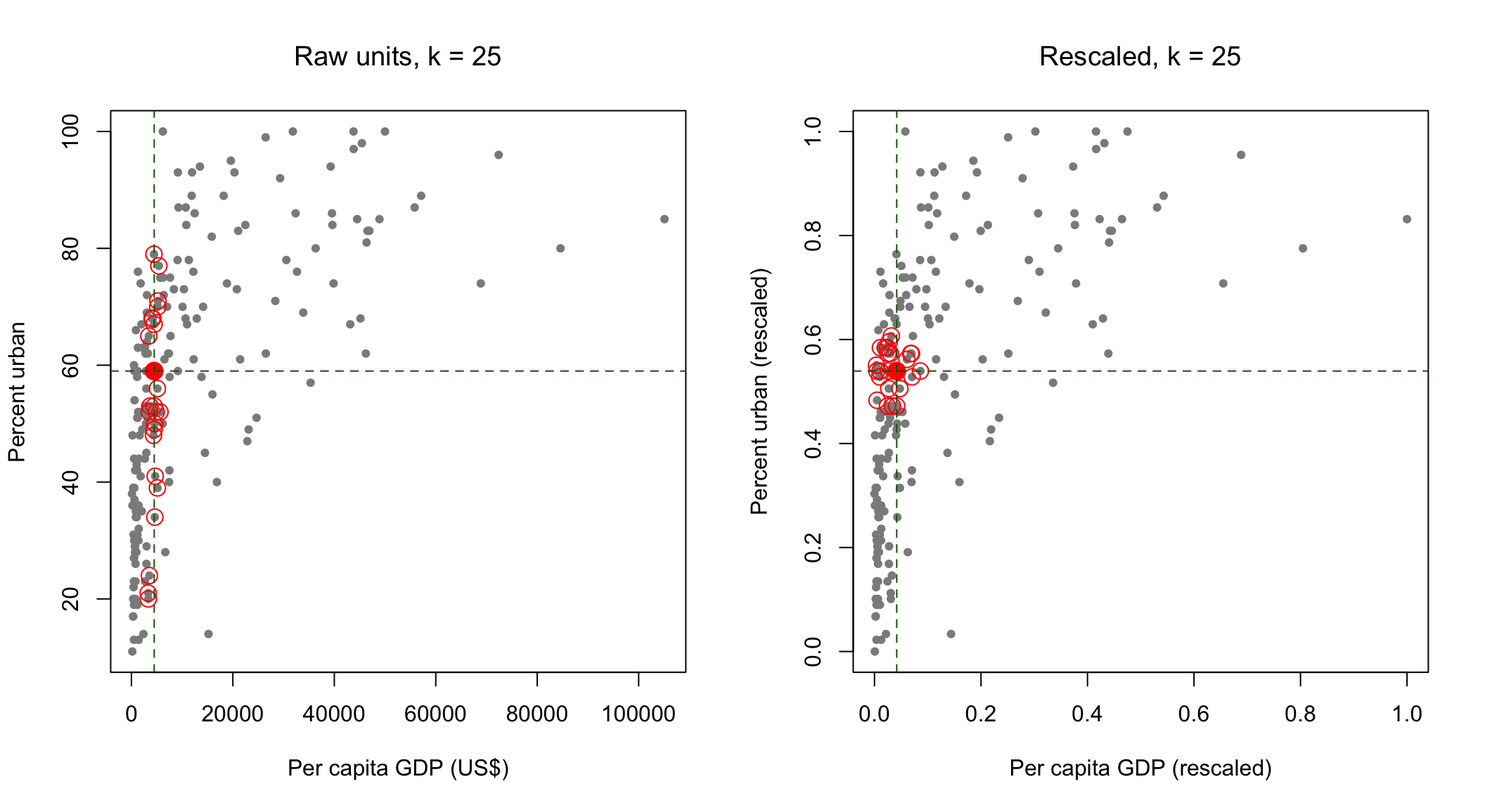
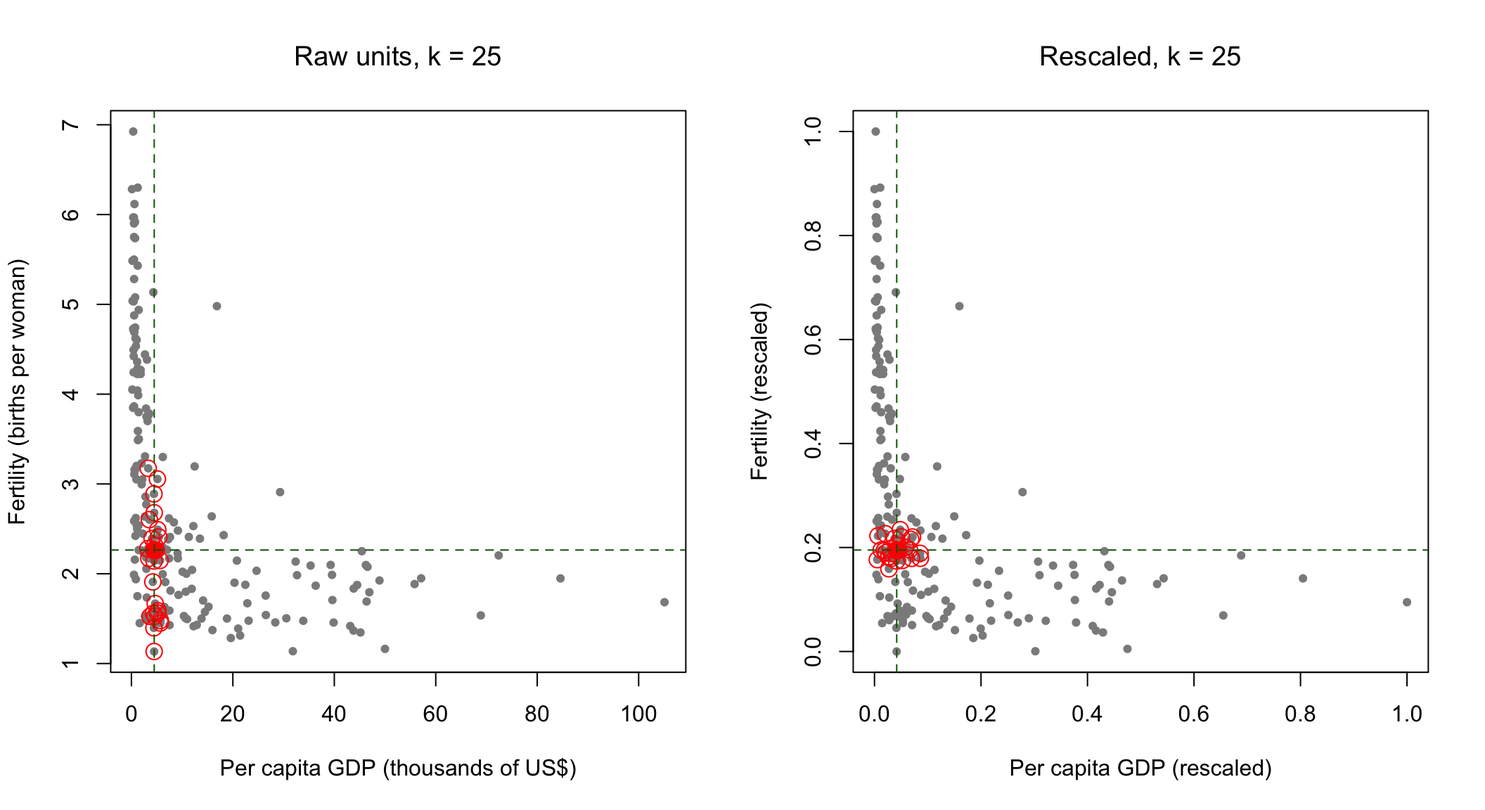
update...

diff --git a/docs/handouts/w02-knn.html b/docs/handouts/w02-knn.html
@@ -376,36 +376,38 @@ window.Quarto = {
 <div class="code-copy-outer-scaffold"><div class="sourceCode cell-code" id="cb2"><pre class="sourceCode r code-with-copy"><code class="sourceCode r"><span id="cb2-1"><a href="#cb2-1" aria-hidden="true" tabindex="-1"></a><span class="fu">library</span>(carData)</span>
 <span id="cb2-2"><a href="#cb2-2" aria-hidden="true" tabindex="-1"></a><span class="fu">library</span>(kknn)</span>
 <span id="cb2-3"><a href="#cb2-3" aria-hidden="true" tabindex="-1"></a></span>
-<span id="cb2-4"><a href="#cb2-4" aria-hidden="true" tabindex="-1"></a><span class="co"># Print numbers in full rather than as 1e+05. Affects plot axes too.</span></span>
-<span id="cb2-5"><a href="#cb2-5" aria-hidden="true" tabindex="-1"></a><span class="fu">options</span>(<span class="at">scipen =</span> <span class="dv">999</span>)</span>
-<span id="cb2-6"><a href="#cb2-6" aria-hidden="true" tabindex="-1"></a></span>
-<span id="cb2-7"><a href="#cb2-7" aria-hidden="true" tabindex="-1"></a><span class="fu">data</span>(UN, <span class="at">package =</span> <span class="st">"carData"</span>)</span>
-<span id="cb2-8"><a href="#cb2-8" aria-hidden="true" tabindex="-1"></a></span>
-<span id="cb2-9"><a href="#cb2-9" aria-hidden="true" tabindex="-1"></a>countries <span class="ot">&lt;-</span> <span class="fu">na.omit</span>(UN[, <span class="fu">c</span>(<span class="st">"ppgdp"</span>, <span class="st">"infantMortality"</span>, <span class="st">"fertility"</span>,</span>
-<span id="cb2-10"><a href="#cb2-10" aria-hidden="true" tabindex="-1"></a>                            <span class="st">"pctUrban"</span>, <span class="st">"lifeExpF"</span>, <span class="st">"group"</span>)])</span>
-<span id="cb2-11"><a href="#cb2-11" aria-hidden="true" tabindex="-1"></a></span>
-<span id="cb2-12"><a href="#cb2-12" aria-hidden="true" tabindex="-1"></a><span class="fu">nrow</span>(countries)</span></code></pre></div><button title="Copy to Clipboard" class="code-copy-button"><i class="bi"></i></button></div>
+<span id="cb2-4"><a href="#cb2-4" aria-hidden="true" tabindex="-1"></a><span class="fu">options</span>(<span class="at">scipen =</span> <span class="dv">999</span>)   <span class="co"># print numbers in full rather than as 1e+05</span></span>
+<span id="cb2-5"><a href="#cb2-5" aria-hidden="true" tabindex="-1"></a></span>
+<span id="cb2-6"><a href="#cb2-6" aria-hidden="true" tabindex="-1"></a><span class="fu">data</span>(UN, <span class="at">package =</span> <span class="st">"carData"</span>)</span>
+<span id="cb2-7"><a href="#cb2-7" aria-hidden="true" tabindex="-1"></a></span>
+<span id="cb2-8"><a href="#cb2-8" aria-hidden="true" tabindex="-1"></a>countries <span class="ot">&lt;-</span> <span class="fu">na.omit</span>(UN[, <span class="fu">c</span>(<span class="st">"ppgdp"</span>, <span class="st">"infantMortality"</span>, <span class="st">"fertility"</span>,</span>
+<span id="cb2-9"><a href="#cb2-9" aria-hidden="true" tabindex="-1"></a>                            <span class="st">"pctUrban"</span>, <span class="st">"lifeExpF"</span>, <span class="st">"group"</span>)])</span>
+<span id="cb2-10"><a href="#cb2-10" aria-hidden="true" tabindex="-1"></a></span>
+<span id="cb2-11"><a href="#cb2-11" aria-hidden="true" tabindex="-1"></a><span class="co"># Express per capita GDP in thousands of dollars</span></span>
+<span id="cb2-12"><a href="#cb2-12" aria-hidden="true" tabindex="-1"></a>countries<span class="sc">$</span>ppgdp <span class="ot">&lt;-</span> countries<span class="sc">$</span>ppgdp <span class="sc">/</span> <span class="dv">1000</span></span>
+<span id="cb2-13"><a href="#cb2-13" aria-hidden="true" tabindex="-1"></a></span>
+<span id="cb2-14"><a href="#cb2-14" aria-hidden="true" tabindex="-1"></a><span class="fu">nrow</span>(countries)</span></code></pre></div><button title="Copy to Clipboard" class="code-copy-button"><i class="bi"></i></button></div>
 <div class="cell-output cell-output-stdout">
 <pre><code>[1] 193</code></pre>
 </div>
 <div class="code-copy-outer-scaffold"><div class="sourceCode cell-code" id="cb4"><pre class="sourceCode r code-with-copy"><code class="sourceCode r"><span id="cb4-1"><a href="#cb4-1" aria-hidden="true" tabindex="-1"></a><span class="fu">head</span>(countries)</span></code></pre></div><button title="Copy to Clipboard" class="code-copy-button"><i class="bi"></i></button></div>
 <div class="cell-output cell-output-stdout">
 <pre><code>             ppgdp infantMortality fertility pctUrban lifeExpF  group
-Afghanistan  499.0         124.535     5.968       23    49.49  other
-Albania     3677.2          16.561     1.525       53    80.40  other
-Algeria     4473.0          21.458     2.142       67    75.00 africa
-Angola      4321.9          96.191     5.135       59    53.17 africa
-Argentina   9162.1          12.337     2.172       93    79.89  other
-Armenia     3030.7          24.272     1.735       64    77.33  other</code></pre>
+Afghanistan 0.4990         124.535     5.968       23    49.49  other
+Albania     3.6772          16.561     1.525       53    80.40  other
+Algeria     4.4730          21.458     2.142       67    75.00 africa
+Angola      4.3219          96.191     5.135       59    53.17 africa
+Argentina   9.1621          12.337     2.172       93    79.89  other
+Armenia     3.0307          24.272     1.735       64    77.33  other</code></pre>
 </div>
 </div>
-<p><code>ppgdp</code> is per capita gross domestic product in US dollars, and <code>infantMortality</code> is deaths per thousand live births.</p>
-<p>The <code>options(scipen = 999)</code> line above is a small housekeeping habit worth adopting now. Per capita GDP runs into six figures, and R’s default is to report large and small numbers in scientific notation, so an axis would be labeled <code>0e+00</code>, <code>2e+04</code>, <code>4e+04</code> rather than in dollars anyone can read. Setting <code>scipen</code> high tells R to prefer ordinary notation, in printed output and on plot axes alike. Put it at the top of any script whose numbers are meant for a reader rather than for you.</p>
+<p><code>ppgdp</code> is per capita gross domestic product and <code>infantMortality</code> is deaths per thousand live births.</p>
+<p>Two small things in that chunk. <code>options(scipen = 999)</code> tells R to print numbers in full rather than in scientific notation, so that a hundred thousand appears as <code>100000</code> and not as <code>1e+05</code>. And we divide per capita GDP by a thousand, so it is measured in thousands of dollars. That second step is cosmetic as far as the model is concerned, since dividing every value by the same constant cannot change which countries are nearest to which, but it keeps every axis in this handout readable. Nobody reports per capita GDP to the nearest dollar anyway.</p>
 <p>Start by looking at the data.</p>
 <div class="cell">
 <div class="code-copy-outer-scaffold"><div class="sourceCode cell-code" id="cb6"><pre class="sourceCode r code-with-copy"><code class="sourceCode r"><span id="cb6-1"><a href="#cb6-1" aria-hidden="true" tabindex="-1"></a><span class="fu">plot</span>(countries<span class="sc">$</span>ppgdp, countries<span class="sc">$</span>infantMortality,</span>
 <span id="cb6-2"><a href="#cb6-2" aria-hidden="true" tabindex="-1"></a>     <span class="at">col =</span> <span class="st">"gray45"</span>, <span class="at">pch =</span> <span class="dv">19</span>, <span class="at">cex =</span> <span class="fl">0.7</span>,</span>
-<span id="cb6-3"><a href="#cb6-3" aria-hidden="true" tabindex="-1"></a>     <span class="at">xlab =</span> <span class="st">"Per capita GDP (US$)"</span>,</span>
+<span id="cb6-3"><a href="#cb6-3" aria-hidden="true" tabindex="-1"></a>     <span class="at">xlab =</span> <span class="st">"Per capita GDP (thousands of US$)"</span>,</span>
 <span id="cb6-4"><a href="#cb6-4" aria-hidden="true" tabindex="-1"></a>     <span class="at">ylab =</span> <span class="st">"Infant mortality (per 1,000 live births)"</span>)</span></code></pre></div><button title="Copy to Clipboard" class="code-copy-button"><i class="bi"></i></button></div>
 <div class="cell-output-display">
 <div>
@@ -420,7 +422,7 @@ Armenia     3030.7          24.272     1.735       64    77.33  other</code></pr
 <div class="cell">
 <div class="code-copy-outer-scaffold"><div class="sourceCode cell-code" id="cb7"><pre class="sourceCode r code-with-copy"><code class="sourceCode r"><span id="cb7-1"><a href="#cb7-1" aria-hidden="true" tabindex="-1"></a><span class="fu">plot</span>(countries<span class="sc">$</span>ppgdp, countries<span class="sc">$</span>infantMortality,</span>
 <span id="cb7-2"><a href="#cb7-2" aria-hidden="true" tabindex="-1"></a>     <span class="at">col =</span> <span class="st">"gray45"</span>, <span class="at">pch =</span> <span class="dv">19</span>, <span class="at">cex =</span> <span class="fl">0.7</span>,</span>
-<span id="cb7-3"><a href="#cb7-3" aria-hidden="true" tabindex="-1"></a>     <span class="at">xlab =</span> <span class="st">"Per capita GDP (US$)"</span>,</span>
+<span id="cb7-3"><a href="#cb7-3" aria-hidden="true" tabindex="-1"></a>     <span class="at">xlab =</span> <span class="st">"Per capita GDP (thousands of US$)"</span>,</span>
 <span id="cb7-4"><a href="#cb7-4" aria-hidden="true" tabindex="-1"></a>     <span class="at">ylab =</span> <span class="st">"Infant mortality (per 1,000 live births)"</span>)</span>
 <span id="cb7-5"><a href="#cb7-5" aria-hidden="true" tabindex="-1"></a></span>
 <span id="cb7-6"><a href="#cb7-6" aria-hidden="true" tabindex="-1"></a>fit_ols <span class="ot">&lt;-</span> <span class="fu">lm</span>(infantMortality <span class="sc">~</span> ppgdp, <span class="at">data =</span> countries)</span>
@@ -445,7 +447,7 @@ Armenia     3030.7          24.272     1.735       64    77.33  other</code></pr
 <span id="cb8-6"><a href="#cb8-6" aria-hidden="true" tabindex="-1"></a></span>
 <span id="cb8-7"><a href="#cb8-7" aria-hidden="true" tabindex="-1"></a><span class="fu">plot</span>(countries<span class="sc">$</span>ppgdp, countries<span class="sc">$</span>infantMortality,</span>
 <span id="cb8-8"><a href="#cb8-8" aria-hidden="true" tabindex="-1"></a>     <span class="at">col =</span> <span class="st">"gray45"</span>, <span class="at">pch =</span> <span class="dv">19</span>, <span class="at">cex =</span> <span class="fl">0.7</span>,</span>
-<span id="cb8-9"><a href="#cb8-9" aria-hidden="true" tabindex="-1"></a>     <span class="at">xlab =</span> <span class="st">"Per capita GDP (US$)"</span>,</span>
+<span id="cb8-9"><a href="#cb8-9" aria-hidden="true" tabindex="-1"></a>     <span class="at">xlab =</span> <span class="st">"Per capita GDP (thousands of US$)"</span>,</span>
 <span id="cb8-10"><a href="#cb8-10" aria-hidden="true" tabindex="-1"></a>     <span class="at">ylab =</span> <span class="st">"Infant mortality (per 1,000 live births)"</span>,</span>
 <span id="cb8-11"><a href="#cb8-11" aria-hidden="true" tabindex="-1"></a>     <span class="at">main =</span> <span class="st">"k = 15"</span>)</span>
 <span id="cb8-12"><a href="#cb8-12" aria-hidden="true" tabindex="-1"></a></span>
@@ -472,7 +474,7 @@ Armenia     3030.7          24.272     1.735       64    77.33  other</code></pr
 <div class="cell">
 <div class="code-copy-outer-scaffold"><div class="sourceCode cell-code" id="cb9"><pre class="sourceCode r code-with-copy"><code class="sourceCode r"><span id="cb9-1"><a href="#cb9-1" aria-hidden="true" tabindex="-1"></a><span class="fu">plot</span>(countries<span class="sc">$</span>ppgdp, countries<span class="sc">$</span>infantMortality,</span>
 <span id="cb9-2"><a href="#cb9-2" aria-hidden="true" tabindex="-1"></a>     <span class="at">col =</span> <span class="st">"gray75"</span>, <span class="at">pch =</span> <span class="dv">19</span>, <span class="at">cex =</span> <span class="fl">0.7</span>,</span>
-<span id="cb9-3"><a href="#cb9-3" aria-hidden="true" tabindex="-1"></a>     <span class="at">xlab =</span> <span class="st">"Per capita GDP (US$)"</span>,</span>
+<span id="cb9-3"><a href="#cb9-3" aria-hidden="true" tabindex="-1"></a>     <span class="at">xlab =</span> <span class="st">"Per capita GDP (thousands of US$)"</span>,</span>
 <span id="cb9-4"><a href="#cb9-4" aria-hidden="true" tabindex="-1"></a>     <span class="at">ylab =</span> <span class="st">"Infant mortality (per 1,000 live births)"</span>,</span>
 <span id="cb9-5"><a href="#cb9-5" aria-hidden="true" tabindex="-1"></a>     <span class="at">main =</span> <span class="st">"The same data, four values of k"</span>)</span>
 <span id="cb9-6"><a href="#cb9-6" aria-hidden="true" tabindex="-1"></a></span>
@@ -818,20 +820,20 @@ Armenia     3030.7          24.272     1.735       64    77.33  other</code></pr
 <p>So far similarity has meant closeness on a single axis, which is easy. With several features we need a general definition of distance, and the usual one is Euclidean distance. For a case <span class="math inline">\(f\)</span> with features <span class="math inline">\((x_{f1}, \dots, x_{fp})\)</span> and a case <span class="math inline">\(i\)</span> in the training data,</p>
 <p><span class="math display">\[d_{if} = \sqrt{\sum_{j=1}^{p}\left(x_{fj} - x_{ij}\right)^2}.\]</span></p>
 <p>This is the straight-line distance you already know, extended to more than two dimensions. And it introduces a problem that is easy to miss and consequential when you do.</p>
-<p>Our features are measured in wildly different units. Per capita GDP runs into the tens of thousands of dollars. Percent urban runs from zero to a hundred. Fertility runs from about one to about seven.</p>
+<p>Our features are measured on very different scales. Per capita GDP runs from well under one up to about a hundred, in thousands of dollars. Percent urban runs from zero to a hundred. Fertility runs from about one to about seven, and female life expectancy from the high forties to the high eighties.</p>
 <div class="cell">
 <div class="code-copy-outer-scaffold"><div class="sourceCode cell-code" id="cb29"><pre class="sourceCode r code-with-copy"><code class="sourceCode r"><span id="cb29-1"><a href="#cb29-1" aria-hidden="true" tabindex="-1"></a><span class="fu">summary</span>(countries[, <span class="fu">c</span>(<span class="st">"ppgdp"</span>, <span class="st">"pctUrban"</span>, <span class="st">"fertility"</span>, <span class="st">"lifeExpF"</span>)])</span></code></pre></div><button title="Copy to Clipboard" class="code-copy-button"><i class="bi"></i></button></div>
 <div class="cell-output cell-output-stdout">
 <pre><code>     ppgdp             pctUrban       fertility        lifeExpF    
- Min.   :   114.8   Min.   : 11.0   Min.   :1.134   Min.   :48.11  
- 1st Qu.:  1239.8   1st Qu.: 39.0   1st Qu.:1.750   1st Qu.:65.10  
- Median :  4495.8   Median : 59.0   Median :2.264   Median :75.57  
- Mean   : 12291.1   Mean   : 57.1   Mean   :2.780   Mean   :72.08  
- 3rd Qu.: 14497.3   3rd Qu.: 75.0   3rd Qu.:3.700   3rd Qu.:79.07  
- Max.   :105095.4   Max.   :100.0   Max.   :6.925   Max.   :87.12  </code></pre>
+ Min.   :  0.1148   Min.   : 11.0   Min.   :1.134   Min.   :48.11  
+ 1st Qu.:  1.2398   1st Qu.: 39.0   1st Qu.:1.750   1st Qu.:65.10  
+ Median :  4.4958   Median : 59.0   Median :2.264   Median :75.57  
+ Mean   : 12.2911   Mean   : 57.1   Mean   :2.780   Mean   :72.08  
+ 3rd Qu.: 14.4973   3rd Qu.: 75.0   3rd Qu.:3.700   3rd Qu.:79.07  
+ Max.   :105.0954   Max.   :100.0   Max.   :6.925   Max.   :87.12  </code></pre>
 </div>
 </div>
-<p>Put those into the distance formula unchanged and a difference of $10,000 in income contributes a hundred million to the sum under the square root, while the entire possible range of fertility contributes about thirty-six. Income does not merely dominate the calculation. It effectively is the calculation, and the other three features have no influence on which cases count as neighbors.</p>
+<p>Put those into the distance formula unchanged and the two wide-ranging features decide everything. A difference of fifty between two countries on per capita GDP contributes two and a half thousand to the sum under the square root. The entire possible range of fertility, from one child per woman to seven, contributes about thirty-five. Fertility is not being weighted lightly here. For practical purposes it is not in the model at all, and neither is anything else measured on a small scale.</p>
 <p>The standard fix is to put all features on a common scale first, either</p>
 <p><span class="math display">\[\tilde{x} = \frac{x - \min(x)}{\max(x) - \min(x)} \qquad \text{or} \qquad \tilde{x} = \frac{x - \bar{x}}{\sigma_x}.\]</span></p>
 <div class="cell">
@@ -858,20 +860,19 @@ Armenia     3030.7          24.272     1.735       64    77.33  other</code></pr
 <div class="code-copy-outer-scaffold"><div class="sourceCode cell-code" id="cb33"><pre class="sourceCode r code-with-copy"><code class="sourceCode r"><span id="cb33-1"><a href="#cb33-1" aria-hidden="true" tabindex="-1"></a><span class="fu">par</span>(<span class="at">mfrow =</span> <span class="fu">c</span>(<span class="dv">2</span>, <span class="dv">2</span>))</span>
 <span id="cb33-2"><a href="#cb33-2" aria-hidden="true" tabindex="-1"></a></span>
 <span id="cb33-3"><a href="#cb33-3" aria-hidden="true" tabindex="-1"></a><span class="fu">plot</span>(countries<span class="sc">$</span>ppgdp, countries<span class="sc">$</span>infantMortality, <span class="at">col =</span> <span class="st">"maroon"</span>, <span class="at">cex =</span> <span class="fl">0.7</span>,</span>
-<span id="cb33-4"><a href="#cb33-4" aria-hidden="true" tabindex="-1"></a>     <span class="at">xlab =</span> <span class="st">"Per capita GDP (US$)"</span>, <span class="at">ylab =</span> <span class="st">"Infant mortality"</span>,</span>
+<span id="cb33-4"><a href="#cb33-4" aria-hidden="true" tabindex="-1"></a>     <span class="at">xlab =</span> <span class="st">"Per capita GDP (thousands of US$)"</span>, <span class="at">ylab =</span> <span class="st">"Infant mortality"</span>,</span>
 <span id="cb33-5"><a href="#cb33-5" aria-hidden="true" tabindex="-1"></a>     <span class="at">main =</span> <span class="st">"Raw units"</span>, <span class="at">font.main =</span> <span class="dv">1</span>)</span>
-<span id="cb33-6"><a href="#cb33-6" aria-hidden="true" tabindex="-1"></a></span>
-<span id="cb33-7"><a href="#cb33-7" aria-hidden="true" tabindex="-1"></a><span class="fu">plot</span>(countries_s<span class="sc">$</span>ppgdp, countries_s<span class="sc">$</span>infantMortality, <span class="at">col =</span> <span class="st">"maroon"</span>, <span class="at">cex =</span> <span class="fl">0.7</span>,</span>
-<span id="cb33-8"><a href="#cb33-8" aria-hidden="true" tabindex="-1"></a>     <span class="at">xlab =</span> <span class="st">"Per capita GDP (rescaled 0 to 1)"</span>, <span class="at">ylab =</span> <span class="st">"Infant mortality"</span>,</span>
-<span id="cb33-9"><a href="#cb33-9" aria-hidden="true" tabindex="-1"></a>     <span class="at">main =</span> <span class="st">"Rescaled"</span>, <span class="at">font.main =</span> <span class="dv">1</span>)</span>
-<span id="cb33-10"><a href="#cb33-10" aria-hidden="true" tabindex="-1"></a></span>
-<span id="cb33-11"><a href="#cb33-11" aria-hidden="true" tabindex="-1"></a><span class="fu">plot</span>(countries<span class="sc">$</span>pctUrban, countries<span class="sc">$</span>infantMortality, <span class="at">col =</span> <span class="st">"maroon"</span>, <span class="at">cex =</span> <span class="fl">0.7</span>,</span>
-<span id="cb33-12"><a href="#cb33-12" aria-hidden="true" tabindex="-1"></a>     <span class="at">xlab =</span> <span class="st">"Percent urban"</span>, <span class="at">ylab =</span> <span class="st">"Infant mortality"</span>,</span>
-<span id="cb33-13"><a href="#cb33-13" aria-hidden="true" tabindex="-1"></a>     <span class="at">main =</span> <span class="st">"Raw units"</span>, <span class="at">font.main =</span> <span class="dv">1</span>)</span>
-<span id="cb33-14"><a href="#cb33-14" aria-hidden="true" tabindex="-1"></a></span>
-<span id="cb33-15"><a href="#cb33-15" aria-hidden="true" tabindex="-1"></a><span class="fu">plot</span>(countries_s<span class="sc">$</span>pctUrban, countries_s<span class="sc">$</span>infantMortality, <span class="at">col =</span> <span class="st">"maroon"</span>, <span class="at">cex =</span> <span class="fl">0.7</span>,</span>
-<span id="cb33-16"><a href="#cb33-16" aria-hidden="true" tabindex="-1"></a>     <span class="at">xlab =</span> <span class="st">"Percent urban (rescaled 0 to 1)"</span>, <span class="at">ylab =</span> <span class="st">"Infant mortality"</span>,</span>
-<span id="cb33-17"><a href="#cb33-17" aria-hidden="true" tabindex="-1"></a>     <span class="at">main =</span> <span class="st">"Rescaled"</span>, <span class="at">font.main =</span> <span class="dv">1</span>)</span></code></pre></div><button title="Copy to Clipboard" class="code-copy-button"><i class="bi"></i></button></div>
+<span id="cb33-6"><a href="#cb33-6" aria-hidden="true" tabindex="-1"></a><span class="fu">plot</span>(countries_s<span class="sc">$</span>ppgdp, countries_s<span class="sc">$</span>infantMortality, <span class="at">col =</span> <span class="st">"maroon"</span>, <span class="at">cex =</span> <span class="fl">0.7</span>,</span>
+<span id="cb33-7"><a href="#cb33-7" aria-hidden="true" tabindex="-1"></a>     <span class="at">xlab =</span> <span class="st">"Per capita GDP (rescaled 0 to 1)"</span>, <span class="at">ylab =</span> <span class="st">"Infant mortality"</span>,</span>
+<span id="cb33-8"><a href="#cb33-8" aria-hidden="true" tabindex="-1"></a>     <span class="at">main =</span> <span class="st">"Rescaled"</span>, <span class="at">font.main =</span> <span class="dv">1</span>)</span>
+<span id="cb33-9"><a href="#cb33-9" aria-hidden="true" tabindex="-1"></a></span>
+<span id="cb33-10"><a href="#cb33-10" aria-hidden="true" tabindex="-1"></a><span class="fu">plot</span>(countries<span class="sc">$</span>pctUrban, countries<span class="sc">$</span>infantMortality, <span class="at">col =</span> <span class="st">"maroon"</span>, <span class="at">cex =</span> <span class="fl">0.7</span>,</span>
+<span id="cb33-11"><a href="#cb33-11" aria-hidden="true" tabindex="-1"></a>     <span class="at">xlab =</span> <span class="st">"Percent urban"</span>, <span class="at">ylab =</span> <span class="st">"Infant mortality"</span>,</span>
+<span id="cb33-12"><a href="#cb33-12" aria-hidden="true" tabindex="-1"></a>     <span class="at">main =</span> <span class="st">"Raw units"</span>, <span class="at">font.main =</span> <span class="dv">1</span>)</span>
+<span id="cb33-13"><a href="#cb33-13" aria-hidden="true" tabindex="-1"></a></span>
+<span id="cb33-14"><a href="#cb33-14" aria-hidden="true" tabindex="-1"></a><span class="fu">plot</span>(countries_s<span class="sc">$</span>pctUrban, countries_s<span class="sc">$</span>infantMortality, <span class="at">col =</span> <span class="st">"maroon"</span>, <span class="at">cex =</span> <span class="fl">0.7</span>,</span>
+<span id="cb33-15"><a href="#cb33-15" aria-hidden="true" tabindex="-1"></a>     <span class="at">xlab =</span> <span class="st">"Percent urban (rescaled 0 to 1)"</span>, <span class="at">ylab =</span> <span class="st">"Infant mortality"</span>,</span>
+<span id="cb33-16"><a href="#cb33-16" aria-hidden="true" tabindex="-1"></a>     <span class="at">main =</span> <span class="st">"Rescaled"</span>, <span class="at">font.main =</span> <span class="dv">1</span>)</span></code></pre></div><button title="Copy to Clipboard" class="code-copy-button"><i class="bi"></i></button></div>
 <div class="cell-output-display">
 <div>
 <figure class="figure">
@@ -907,32 +908,32 @@ Armenia     3030.7          24.272     1.735       64    77.33  other</code></pr
 <h2 class="anchored" data-anchor-id="what-the-neighborhood-looks-like">What the neighborhood looks like</h2>
 <p>Now the thing worth seeing. Pick a country, and ask which twenty-five countries the algorithm considers its neighbors. We do it twice, once in raw units and once rescaled, using the same country both times.</p>
 <div class="cell">
-<div class="code-copy-outer-scaffold"><div class="sourceCode cell-code" id="cb35"><pre class="sourceCode r code-with-copy"><code class="sourceCode r"><span id="cb35-1"><a href="#cb35-1" aria-hidden="true" tabindex="-1"></a>target_raw <span class="ot">&lt;-</span> <span class="fu">c</span>(<span class="fu">median</span>(countries<span class="sc">$</span>ppgdp),   <span class="fu">median</span>(countries<span class="sc">$</span>pctUrban))</span>
-<span id="cb35-2"><a href="#cb35-2" aria-hidden="true" tabindex="-1"></a>target_s   <span class="ot">&lt;-</span> <span class="fu">c</span>(<span class="fu">median</span>(countries_s<span class="sc">$</span>ppgdp), <span class="fu">median</span>(countries_s<span class="sc">$</span>pctUrban))</span>
+<div class="code-copy-outer-scaffold"><div class="sourceCode cell-code" id="cb35"><pre class="sourceCode r code-with-copy"><code class="sourceCode r"><span id="cb35-1"><a href="#cb35-1" aria-hidden="true" tabindex="-1"></a>target_raw <span class="ot">&lt;-</span> <span class="fu">c</span>(<span class="fu">median</span>(countries<span class="sc">$</span>ppgdp),   <span class="fu">median</span>(countries<span class="sc">$</span>fertility))</span>
+<span id="cb35-2"><a href="#cb35-2" aria-hidden="true" tabindex="-1"></a>target_s   <span class="ot">&lt;-</span> <span class="fu">c</span>(<span class="fu">median</span>(countries_s<span class="sc">$</span>ppgdp), <span class="fu">median</span>(countries_s<span class="sc">$</span>fertility))</span>
 <span id="cb35-3"><a href="#cb35-3" aria-hidden="true" tabindex="-1"></a></span>
 <span id="cb35-4"><a href="#cb35-4" aria-hidden="true" tabindex="-1"></a><span class="co"># Euclidean distance, exactly the formula above, computed by hand</span></span>
-<span id="cb35-5"><a href="#cb35-5" aria-hidden="true" tabindex="-1"></a>dist_raw <span class="ot">&lt;-</span> <span class="fu">sqrt</span>((countries<span class="sc">$</span>ppgdp   <span class="sc">-</span> target_raw[<span class="dv">1</span>])<span class="sc">^</span><span class="dv">2</span> <span class="sc">+</span></span>
-<span id="cb35-6"><a href="#cb35-6" aria-hidden="true" tabindex="-1"></a>                 (countries<span class="sc">$</span>pctUrban <span class="sc">-</span> target_raw[<span class="dv">2</span>])<span class="sc">^</span><span class="dv">2</span>)</span>
+<span id="cb35-5"><a href="#cb35-5" aria-hidden="true" tabindex="-1"></a>dist_raw <span class="ot">&lt;-</span> <span class="fu">sqrt</span>((countries<span class="sc">$</span>ppgdp     <span class="sc">-</span> target_raw[<span class="dv">1</span>])<span class="sc">^</span><span class="dv">2</span> <span class="sc">+</span></span>
+<span id="cb35-6"><a href="#cb35-6" aria-hidden="true" tabindex="-1"></a>                 (countries<span class="sc">$</span>fertility <span class="sc">-</span> target_raw[<span class="dv">2</span>])<span class="sc">^</span><span class="dv">2</span>)</span>
 <span id="cb35-7"><a href="#cb35-7" aria-hidden="true" tabindex="-1"></a></span>
-<span id="cb35-8"><a href="#cb35-8" aria-hidden="true" tabindex="-1"></a>dist_s   <span class="ot">&lt;-</span> <span class="fu">sqrt</span>((countries_s<span class="sc">$</span>ppgdp   <span class="sc">-</span> target_s[<span class="dv">1</span>])<span class="sc">^</span><span class="dv">2</span> <span class="sc">+</span></span>
-<span id="cb35-9"><a href="#cb35-9" aria-hidden="true" tabindex="-1"></a>                 (countries_s<span class="sc">$</span>pctUrban <span class="sc">-</span> target_s[<span class="dv">2</span>])<span class="sc">^</span><span class="dv">2</span>)</span>
+<span id="cb35-8"><a href="#cb35-8" aria-hidden="true" tabindex="-1"></a>dist_s   <span class="ot">&lt;-</span> <span class="fu">sqrt</span>((countries_s<span class="sc">$</span>ppgdp     <span class="sc">-</span> target_s[<span class="dv">1</span>])<span class="sc">^</span><span class="dv">2</span> <span class="sc">+</span></span>
+<span id="cb35-9"><a href="#cb35-9" aria-hidden="true" tabindex="-1"></a>                 (countries_s<span class="sc">$</span>fertility <span class="sc">-</span> target_s[<span class="dv">2</span>])<span class="sc">^</span><span class="dv">2</span>)</span>
 <span id="cb35-10"><a href="#cb35-10" aria-hidden="true" tabindex="-1"></a></span>
 <span id="cb35-11"><a href="#cb35-11" aria-hidden="true" tabindex="-1"></a>nb_raw <span class="ot">&lt;-</span> <span class="fu">order</span>(dist_raw)[<span class="dv">1</span><span class="sc">:</span><span class="dv">25</span>]</span>
 <span id="cb35-12"><a href="#cb35-12" aria-hidden="true" tabindex="-1"></a>nb_s   <span class="ot">&lt;-</span> <span class="fu">order</span>(dist_s)[<span class="dv">1</span><span class="sc">:</span><span class="dv">25</span>]</span>
 <span id="cb35-13"><a href="#cb35-13" aria-hidden="true" tabindex="-1"></a></span>
 <span id="cb35-14"><a href="#cb35-14" aria-hidden="true" tabindex="-1"></a><span class="fu">par</span>(<span class="at">mfrow =</span> <span class="fu">c</span>(<span class="dv">1</span>, <span class="dv">2</span>))</span>
 <span id="cb35-15"><a href="#cb35-15" aria-hidden="true" tabindex="-1"></a></span>
-<span id="cb35-16"><a href="#cb35-16" aria-hidden="true" tabindex="-1"></a><span class="fu">plot</span>(countries<span class="sc">$</span>ppgdp, countries<span class="sc">$</span>pctUrban, <span class="at">col =</span> <span class="st">"gray55"</span>, <span class="at">pch =</span> <span class="dv">19</span>, <span class="at">cex =</span> <span class="fl">0.7</span>,</span>
-<span id="cb35-17"><a href="#cb35-17" aria-hidden="true" tabindex="-1"></a>     <span class="at">xlab =</span> <span class="st">"Per capita GDP (US$)"</span>, <span class="at">ylab =</span> <span class="st">"Percent urban"</span>,</span>
+<span id="cb35-16"><a href="#cb35-16" aria-hidden="true" tabindex="-1"></a><span class="fu">plot</span>(countries<span class="sc">$</span>ppgdp, countries<span class="sc">$</span>fertility, <span class="at">col =</span> <span class="st">"gray55"</span>, <span class="at">pch =</span> <span class="dv">19</span>, <span class="at">cex =</span> <span class="fl">0.7</span>,</span>
+<span id="cb35-17"><a href="#cb35-17" aria-hidden="true" tabindex="-1"></a>     <span class="at">xlab =</span> <span class="st">"Per capita GDP (thousands of US$)"</span>, <span class="at">ylab =</span> <span class="st">"Fertility (births per woman)"</span>,</span>
 <span id="cb35-18"><a href="#cb35-18" aria-hidden="true" tabindex="-1"></a>     <span class="at">main =</span> <span class="st">"Raw units, k = 25"</span>, <span class="at">font.main =</span> <span class="dv">1</span>)</span>
-<span id="cb35-19"><a href="#cb35-19" aria-hidden="true" tabindex="-1"></a><span class="fu">points</span>(countries<span class="sc">$</span>ppgdp[nb_raw], countries<span class="sc">$</span>pctUrban[nb_raw], <span class="at">col =</span> <span class="st">"red"</span>, <span class="at">cex =</span> <span class="fl">1.6</span>)</span>
+<span id="cb35-19"><a href="#cb35-19" aria-hidden="true" tabindex="-1"></a><span class="fu">points</span>(countries<span class="sc">$</span>ppgdp[nb_raw], countries<span class="sc">$</span>fertility[nb_raw], <span class="at">col =</span> <span class="st">"red"</span>, <span class="at">cex =</span> <span class="fl">1.6</span>)</span>
 <span id="cb35-20"><a href="#cb35-20" aria-hidden="true" tabindex="-1"></a><span class="fu">points</span>(target_raw[<span class="dv">1</span>], target_raw[<span class="dv">2</span>], <span class="at">col =</span> <span class="st">"red"</span>, <span class="at">pch =</span> <span class="dv">19</span>, <span class="at">cex =</span> <span class="fl">1.7</span>)</span>
 <span id="cb35-21"><a href="#cb35-21" aria-hidden="true" tabindex="-1"></a><span class="fu">abline</span>(<span class="at">v =</span> target_raw[<span class="dv">1</span>], <span class="at">h =</span> target_raw[<span class="dv">2</span>], <span class="at">col =</span> <span class="st">"darkgreen"</span>, <span class="at">lty =</span> <span class="dv">2</span>)</span>
 <span id="cb35-22"><a href="#cb35-22" aria-hidden="true" tabindex="-1"></a></span>
-<span id="cb35-23"><a href="#cb35-23" aria-hidden="true" tabindex="-1"></a><span class="fu">plot</span>(countries_s<span class="sc">$</span>ppgdp, countries_s<span class="sc">$</span>pctUrban, <span class="at">col =</span> <span class="st">"gray55"</span>, <span class="at">pch =</span> <span class="dv">19</span>, <span class="at">cex =</span> <span class="fl">0.7</span>,</span>
-<span id="cb35-24"><a href="#cb35-24" aria-hidden="true" tabindex="-1"></a>     <span class="at">xlab =</span> <span class="st">"Per capita GDP (rescaled)"</span>, <span class="at">ylab =</span> <span class="st">"Percent urban (rescaled)"</span>,</span>
+<span id="cb35-23"><a href="#cb35-23" aria-hidden="true" tabindex="-1"></a><span class="fu">plot</span>(countries_s<span class="sc">$</span>ppgdp, countries_s<span class="sc">$</span>fertility, <span class="at">col =</span> <span class="st">"gray55"</span>, <span class="at">pch =</span> <span class="dv">19</span>, <span class="at">cex =</span> <span class="fl">0.7</span>,</span>
+<span id="cb35-24"><a href="#cb35-24" aria-hidden="true" tabindex="-1"></a>     <span class="at">xlab =</span> <span class="st">"Per capita GDP (rescaled)"</span>, <span class="at">ylab =</span> <span class="st">"Fertility (rescaled)"</span>,</span>
 <span id="cb35-25"><a href="#cb35-25" aria-hidden="true" tabindex="-1"></a>     <span class="at">main =</span> <span class="st">"Rescaled, k = 25"</span>, <span class="at">font.main =</span> <span class="dv">1</span>)</span>
-<span id="cb35-26"><a href="#cb35-26" aria-hidden="true" tabindex="-1"></a><span class="fu">points</span>(countries_s<span class="sc">$</span>ppgdp[nb_s], countries_s<span class="sc">$</span>pctUrban[nb_s], <span class="at">col =</span> <span class="st">"red"</span>, <span class="at">cex =</span> <span class="fl">1.6</span>)</span>
+<span id="cb35-26"><a href="#cb35-26" aria-hidden="true" tabindex="-1"></a><span class="fu">points</span>(countries_s<span class="sc">$</span>ppgdp[nb_s], countries_s<span class="sc">$</span>fertility[nb_s], <span class="at">col =</span> <span class="st">"red"</span>, <span class="at">cex =</span> <span class="fl">1.6</span>)</span>
 <span id="cb35-27"><a href="#cb35-27" aria-hidden="true" tabindex="-1"></a><span class="fu">points</span>(target_s[<span class="dv">1</span>], target_s[<span class="dv">2</span>], <span class="at">col =</span> <span class="st">"red"</span>, <span class="at">pch =</span> <span class="dv">19</span>, <span class="at">cex =</span> <span class="fl">1.7</span>)</span>
 <span id="cb35-28"><a href="#cb35-28" aria-hidden="true" tabindex="-1"></a><span class="fu">abline</span>(<span class="at">v =</span> target_s[<span class="dv">1</span>], <span class="at">h =</span> target_s[<span class="dv">2</span>], <span class="at">col =</span> <span class="st">"darkgreen"</span>, <span class="at">lty =</span> <span class="dv">2</span>)</span></code></pre></div><button title="Copy to Clipboard" class="code-copy-button"><i class="bi"></i></button></div>
 <div class="cell-output-display">
@@ -945,7 +946,7 @@ Armenia     3030.7          24.272     1.735       64    77.33  other</code></pr
 </div>
 <p>The filled red point is the country we are predicting for. The circled points are the twenty-five the algorithm chose as most similar to it.</p>
 <p>On the right, with both features on a common scale, the neighborhood is roughly a disc around the target. Both features contributed to picking it, which is what we asked for.</p>
-<p>On the left it is a narrow vertical band. The selected countries share almost exactly the target’s income and are spread across nearly the whole range of urbanization, from barely urban to almost entirely so. In raw units, per capita GDP runs into the tens of thousands and percent urban tops out at a hundred, so a difference of a few thousand dollars swamps the entire possible range of the second feature. The algorithm did not ignore urbanization because anybody decided it was unimportant. It ignored it because of the units it was measured in.</p>
+<p>On the left it is a narrow vertical band. The selected countries share almost exactly the target’s income and are spread across nearly the whole range of fertility, from around one child per woman to well above the average. Per capita GDP spans about a hundred units on this scale and fertility spans about six, so a difference of a few units of income outweighs the entire fertility axis. The algorithm did not ignore fertility because anybody judged it unimportant. It ignored it because of the units it happens to be measured in.</p>
 <p>Note also what the model would have reported. Both versions return predictions. Neither prints a warning. The left-hand model would have gone into a paper as a two-feature model, and the fact that it was a one-feature model in disguise would appear nowhere in the output.</p>
 <p>Stay with that, because it is not a technical footnote. The algorithm’s entire operation rests on its definition of “similar,” and that definition was just set by two choices: which features we included, and how we scaled them. Neither choice required anyone to make a claim about the world. Had we left the units alone, the model would have decided that countries are similar when their incomes are similar, and it would have reported that decision as a finding rather than as an artifact of the fact that GDP happens to be counted in dollars.</p>
 </section>
